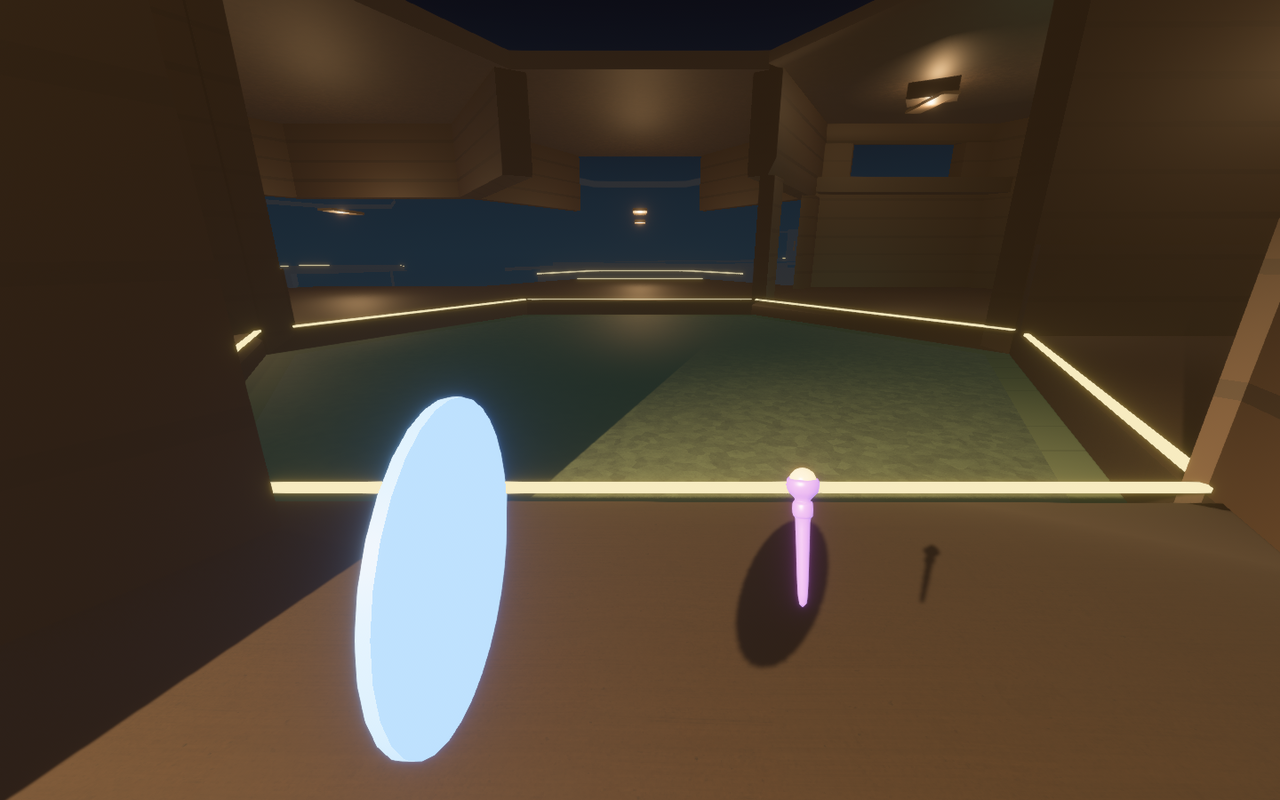
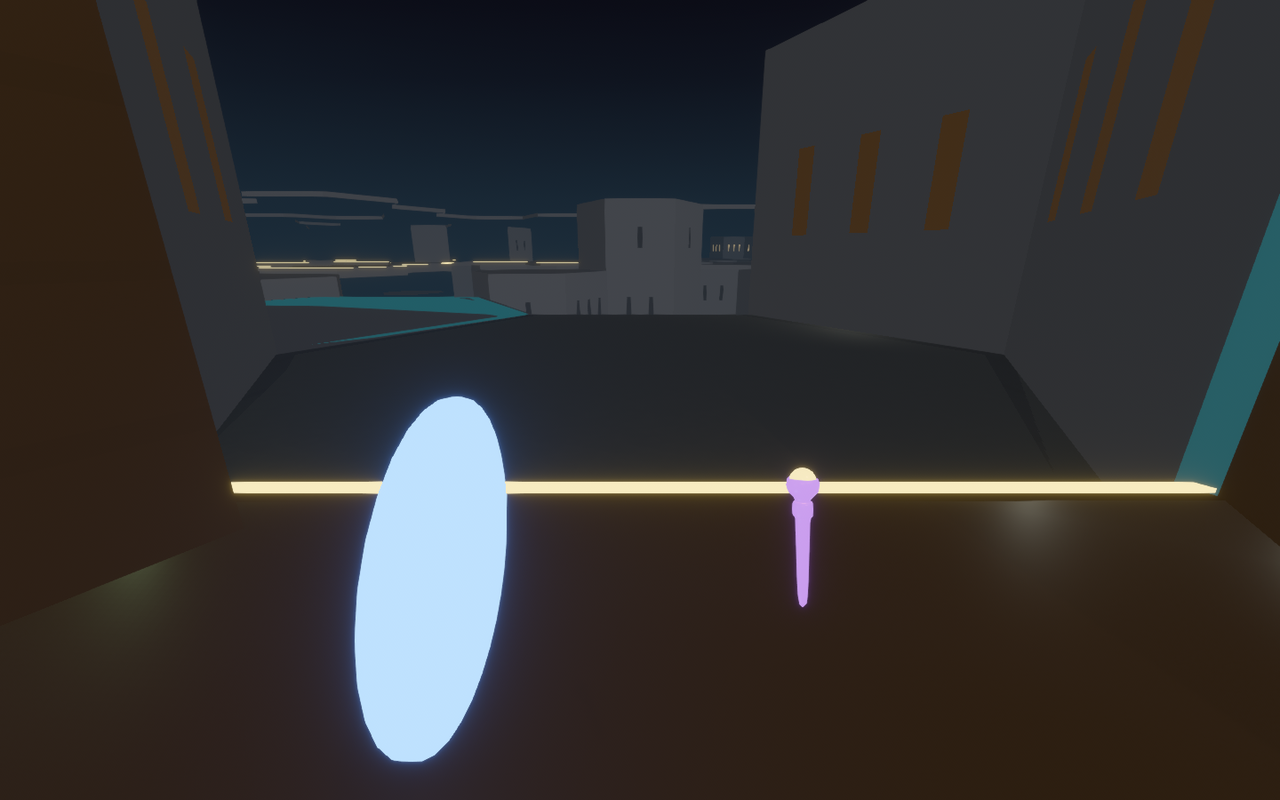
feat(composition): the open-air facility, void share 300 -> 2,000
The committed composition profile now asks for a void share of 2,000, and is
relabelled "open air". It is the baseline in every other control. At 300 the
production facility was 76% built, so most open edges overlooked the roof of
the storey below; the vista that open edges were built for barely appeared.

Chosen on measurement, not taste. On the arc lattice with the committed
catalog (vista_lab's sweep_void_share, six seeds), the share took the facility
from 21% air at 300 to 43% at 1,000, 56% at 2,000 and 79% at 10,000, every seed
solving in the same ~0.4 s with the exit reachable. Drops between towers, the
vista's look, peak near 2,000: 294 open faces over a drop of two storeys or
more at 300, 674 at 2,000, falling away after. Walkways go from 9 a facility
to 29.

And on what a match does (survey_void_share_playability, a solo spectator
runner, ten seeds): 300 finished 10 of 10 at a median of 20,633 ticks; 2,000
finished 10 of 10 at 18,457, with no recoveries in either. 1,500 stalled one
runner in Seek, not a fall.

The SpaceMix doc's sweep predated corridor routing and understated the lever
(38.6% at the ceiling); it now says so and records the new numbers. The in-code
baseline stays at 300, because the compact regression fixtures are pinned to
it.

Moves the committed-profile pins deliberately: the profile and simulation
hashes (LAN peers on the old build are refused, as they should be), the
[…]

diff --git a/game/src/hex_wfc/launch.rs b/game/src/hex_wfc/launch.rs
@@ -254,13 +254,15 @@ mod tests {
     /// The corpus's composition profile must reach the solve, not merely be
     /// loaded and hashed. Without this, authoring a profile would change the
     /// simulation content hash — locking peers out — while building the exact
-    /// same facility, which is the worst of both outcomes.
+    /// same facility, which is the worst of both outcomes. The committed profile
+    /// is authored (the open-air void share), so it must build something the
+    /// baseline does not.
     #[test]
     fn the_corpus_composition_profile_reaches_the_prepared_facility() {
         let content = load_current_content().expect("committed authoring corpus loads");
         assert!(
-            content.composition().is_baseline(),
-            "the committed profile is authored; update this test's expectation"
+            !content.composition().is_baseline(),
+            "the committed profile is the baseline again; update this test's expectation"
         );
         let spec = HexLaunchSpec {
             requested_seed: 0xF011_FAC1_1177,
@@ -268,28 +270,19 @@ mod tests {
             seed_policy: HexSeedPolicy::Nearby,
         };
 
-        let baseline = prepare_with_content(spec, &content).expect("baseline prepares");
-
-        // Bias the lottery hard enough that the layout cannot plausibly match,
-        // while staying inside the validated band so solvability is untouched.
-        let mut authored_catalog = RuntimeHexCatalog {
+        let committed = prepare_with_content(spec, &content).expect("committed prepares");
+        let baseline_catalog = RuntimeHexCatalog {
             cells: content.cells().to_vec(),
             rooms: content.rooms().to_vec(),
-            composition: content.composition().clone(),
+            composition: observed_facility::hex_wfc::HexCompositionProfile::baseline(),
             simulation_content_hash: content.simulation_content_hash(),
         };
-        authored_catalog.composition.archetype_bias = authored_catalog
-            .composition
-            .archetype_bias
-            .with(observed_facility::hex_wfc::HexArchetype::Junction, 4.0)
-            .with(observed_facility::hex_wfc::HexArchetype::Corner, 0.25);
-        assert_eq!(authored_catalog.composition.validate(), Ok(()));
-        let authored = Arc::new(HexMatchContent::from_runtime_catalog(authored_catalog));
-        let steered = prepare_with_content(spec, &authored).expect("authored profile still solves");
+        let baseline = Arc::new(HexMatchContent::from_runtime_catalog(baseline_catalog));
+        let unprofiled = prepare_with_content(spec, &baseline).expect("baseline still solves");
 
         assert_ne!(
-            baseline.match_state.facility.placements, steered.match_state.facility.placements,
-            "an authored composition profile must change what the solver builds"
+            committed.match_state.facility.placements, unprofiled.match_state.facility.placements,
+            "the committed composition profile must change what the solver builds"
         );
     }
 
@@ -303,11 +296,13 @@ mod tests {
         };
         let (mut former_match, former_offset) = (0..NEARBY_SEED_ATTEMPTS)
             .find_map(|seed_offset| {
-                HexWfcMatch::new_with_rooms(
+                // Through the committed content, composition and all: the room-list
+                // constructor solves under the baseline profile, and agreed with the
+                // launch only while the committed profile was the baseline.
+                HexWfcMatch::new_with_content(
                     spec.requested_seed.wrapping_add(seed_offset),
                     spec.config,
-                    content.cells(),
-                    content.rooms(),
+                    content.clone(),
                 )
                 .ok()
                 .map(|match_state| (match_state, seed_offset))

diff --git a/game/src/tests/hex_wfc_survey.rs b/game/src/tests/hex_wfc_survey.rs
@@ -382,7 +382,7 @@ fn spectator_stall_diagnostic_names_the_traversal_state() {
 /// completion tick, and how many recoveries (falls out of the world or off a roof
 /// onto one the runner cannot leave) the bot needed on the way.
 #[test]
-#[ignore = "composition playability survey: 3 void shares x 4 production matches, minutes; prints"]
+#[ignore = "composition playability survey: void shares x production matches, ~50 s each; prints"]
 fn survey_void_share_playability() {
     use observed_facility::hex_wfc::HexWfcConfig;
     let root = std::path::Path::new(env!("CARGO_MANIFEST_DIR")).join("../assets/tiles");
@@ -390,15 +390,28 @@ fn survey_void_share_playability() {
         .map(observed_content::ArchitectureRegister::slug);
     let catalog =
         observed_authoring::RuntimeHexCatalog::load(&root, &slugs).expect("committed catalog");
+    // `OBSERVED2_VOID_SURVEY=300,2000` and `OBSERVED2_VOID_SURVEY_SEEDS=10` widen it.
+    let voids: Vec<f64> = std::env::var("OBSERVED2_VOID_SURVEY")
+        .ok()
+        .map(|list| {
+            list.split(',')
+                .filter_map(|v| v.trim().parse().ok())
+                .collect()
+        })
+        .unwrap_or_else(|| vec![300.0, 1_000.0, 2_000.0]);
+    let seeds: u64 = std::env::var("OBSERVED2_VOID_SURVEY_SEEDS")
+        .ok()
+        .and_then(|n| n.parse().ok())
+        .unwrap_or(4);
     eprintln!("void  finished  median tick  recoveries  (per seed: tick/recoveries)");
-    for void in [300.0, 1_000.0, 2_000.0] {
+    for void in voids {
         let mut catalog = catalog.clone();
         catalog.composition.space_mix.void = void;
         let content = std::sync::Arc::new(
             observed_match::hex_wfc::HexMatchContent::from_runtime_catalog(catalog),
         );
         let (mut ticks, mut recoveries, mut rows) = (Vec::new(), 0, Vec::new());
-        for index in 0..4u64 {
+        for index in 0..seeds {
             let seed = crate::flow::MATCH_SEED.wrapping_add(index.wrapping_mul(1_000_003));
             let config = HexMatchConfig {
                 teams: 1,
@@ -428,13 +441,18 @@ fn survey_void_share_playability() {
                 ticks.push(game.tick);
                 rows.push(format!("{}/{recovered}", game.tick));
             } else {
-                rows.push(format!("stalled/{recovered}"));
+                let runner = game.players.values().next().expect("runner");
+                rows.push(format!(
+                    "stalled/{recovered}[{:?} {:?}]",
+                    runner.cell,
+                    game.bot_behaviour(runner.id)
+                ));
             }
         }
         ticks.sort_unstable();
         let median = ticks.get(ticks.len() / 2).copied().unwrap_or(0);
         eprintln!(
-            "{void:5}  {}/4       {median:11}  {recoveries:10}  {}",
+            "{void:5}  {}/{seeds}      {median:11}  {recoveries:10}  {}",
             ticks.len(),
             rows.join("  ")
         );

diff --git a/crates/observed_authoring/src/composition.rs b/crates/observed_authoring/src/composition.rs
@@ -427,16 +427,23 @@ mod tests {
         load_profile(&committed_tiles()).expect("committed composition profile loads");
     }
 
-    /// Slice 0 ships the substrate, not a composition change. If this starts
-    /// failing, someone authored a real profile — which is fine, but it means
-    /// the shipped facility changed and the layout evidence needs recapturing.
+    /// The committed profile is the open-air composition: the baseline in every
+    /// control but one, a void share of 2,000 in place of 300, chosen on measurement
+    /// (`docs/open_air_facility.md`). If this starts failing, someone authored a
+    /// further change - which is fine, but the shipped facility changed again and
+    /// the layout evidence needs recapturing.
     #[test]
-    fn the_committed_profile_is_still_the_baseline() {
+    fn the_committed_profile_is_the_open_air_composition() {
         let build = load_profile(&committed_tiles()).expect("loads");
+        let mut profile = build.profile;
+        assert_eq!(profile.label, "open air");
+        assert!((profile.space_mix.void - 2_000.0).abs() < f64::EPSILON);
+        let baseline = observed_facility::hex_wfc::HexCompositionProfile::baseline();
+        profile.space_mix.void = baseline.space_mix.void;
+        profile.label.clone_from(&baseline.label);
         assert!(
-            build.profile.is_baseline(),
-            "the committed profile is no longer the baseline: {:?}",
-            build.profile.label
+            profile.is_baseline(),
+            "the committed profile differs from the baseline in more than its void share"
         );
     }
 
@@ -778,13 +785,14 @@ mod tests {
         // channel by which such a change reaches this hash at all.
         const CATALOG_HASH: &str =
[1 lines of base64/hex data omitted]
+        // The open-air composition (void share 2,000), 2026-09-24.
         const PROFILE_HASH: &str =
[2 lines of base64/hex data omitted]
         // Folds the catalog and the profile. Both sides moved this time, which
         // is the point: a peer on the old build now fails the handshake instead
         // of joining and generating a different facility.
         const SIMULATION_HASH: &str =
[2 lines of base64/hex data omitted]
 
         let root = committed_tiles();
         let compiled_text =

diff --git a/crates/observed_match/src/hex_wfc/geometry/tests.rs b/crates/observed_match/src/hex_wfc/geometry/tests.rs
@@ -319,20 +319,23 @@ fn production_catalog_selection_is_pinned_for_spectator_seeds() {
     // Curation retires 96 alternatives from the production catalogue. Re-pin content;
     // placement counts and the unchanged stair-tower family remain exact gates.
     let catalog = crate::hex_wfc::test_catalog();
+    // Re-pinned when the committed profile moved to the open-air composition (void
+    // share 300 -> 2,000): the same seeds build about half as many cells, because more
+    // of the lattice is air. The table above records the facility before that.
     let cases = [
         (
             1u64,
-            293usize,
-            0xce2e_7acb_d1e9_2610u64,
-            45usize,
-            0x95e0_1b87_e452_104cu64,
+            143usize,
+            0xae2f_b54d_2389_fab0u64,
+            29usize,
+            0x4e20_864f_7371_20a9u64,
         ),
         (
             10_000_031u64,
-            238usize,
-            0x62bd_49e7_751c_d215u64,
-            29usize,
-            0xe5db_a473_4a53_b1a3u64,
+            101usize,
+            0xb6bc_c0a1_f832_dd74u64,
+            18usize,
+            0xd4b0_ff69_90ab_03d0u64,
         ),
     ];
     let mut actual = Vec::new();

diff --git a/crates/observed_facility/src/hex_wfc/profile.rs b/crates/observed_facility/src/hex_wfc/profile.rs
@@ -217,6 +217,15 @@ impl SpaceMix {
     /// Room's share only decides anything inside a stamped blueprint, where
     /// room variants are the only legal space, so it is kept near its old
     /// proportion and does no work.
+    ///
+    /// **The sweep above predates corridor routing, and understates the lever.**
+    /// Re-measured on 2026-09-24 on the 24x17x8 arc lattice with routed corridors and
+    /// the committed catalog, six seeds (`vista_lab`'s `sweep_void_share`), the share
+    /// took the facility from 21% air at 300 to 43% at 1,000, 56% at 2,000 and 79% at
+    /// 10,000, with every seed solving in the same ~0.4 s and the exit always reachable.
+    /// Deep drops between towers peak near 2,000. The committed composition profile
+    /// now asks for 2,000 (see `docs/open_air_facility.md`); this in-code baseline
+    /// stays at 300, because it is what the compact regression fixtures are pinned to.
     #[must_use]
     pub const fn baseline() -> Self {
         Self {

diff --git a/docs/open_air_facility.md b/docs/open_air_facility.md
@@ -77,8 +77,9 @@ seconds on a roof, the body goes back to the last cell it stood in.
 
 ## Measured
 
-On the production facility (24 × 17 × 8, the committed composition profile, six
-seeds):
+On the production facility as it was when open edges landed (24 × 17 × 8, the
+committed profile at its old void share of 300, six seeds; see *More void* below for
+what the profile asks for now):
 
 | | per facility |
 | --- | --- |
@@ -111,15 +112,69 @@ deepest drop beyond them, and takes one still at each.
 | ![Railed loggia over the cloud sea](evidence/open_air_facility/vista_01_railed_loggia.png) | ![A bare edge above the unsafe height](evidence/open_air_facility/vista_02_bare_edge.png) |
 | ![A walkway, railed, at level 1](evidence/open_air_facility/vista_03_walkway.png) | ![The summit court](evidence/open_air_facility/vista_04_summit.png) |
 
+## More void: the composition
+
+At 300 the production facility is 76% built, so most open edges overlooked the roof of
+the storey below. The committed composition profile now asks for a void share of
+**2,000**, relabelled `open air`.
+
+**What it does to the shape** (`vista_lab`'s `sweep_void_share`, six seeds, arc lattice):
+
+| void share | air | open halls | walkways | deep drops off the rim | deep drops between towers | floating cells | solved, exit reachable |
+| --- | --- | --- | --- | --- | --- | --- | --- |
+| 300 (was) | 21% | 903 | 9 | 368 | 294 | 137 | 6/6, 6/6 |
+| 1,000 | 43% | 785 | 18 | 191 | 551 | 212 | 6/6, 6/6 |
+| **2,000** | **56%** | 671 | 29 | 131 | **674** | 244 | 6/6, 6/6 |
+| 4,000 | 69% | 485 | 32 | 72 | 612 | 255 | 6/6, 6/6 |
+
+Solve time is flat at about 0.4 s throughout. Drops between towers, the vista's look,
+peak near 2,000; beyond it the building thins and they fall away.
+
+**What it does to a match** (`survey_void_share_playability`, a solo spectator runner
+on the arc lattice, ten seeds):
+
+| void share | finished | median completion tick | recoveries |
+| --- | --- | --- | --- |
+| 300 (was) | 10/10 | 20,633 | 0 |
+| 1,500 | 9/10 | 20,589 | 0 |
+| **2,000** | **10/10** | **18,457** | 0 |
+
+At 1,500 one runner stalled while seeking, standing on a level-4 hall; it was not a
+fall. Two thousand finished every run and ran about 10% faster at the median.
+
+To try another share in the game without committing it:
+
+```powershell
+$env:OBSERVED2_HEX_VOID_SHARE = "4000"; cargo dev-run -p observed_game
+```
+
+The share is folded into the simulation content hash, so a LAN peer on a different
+composition refuses the match.
+
+## Two bugs the gate could not see
+
+Both were found by the production survey after open edges merged, and both are fixed
+with tests that fail without the fix.
+
+- **Holed floors.** Most corridor halls are narrower than their cell, and the solid
+  masses either side of the corridor carry its floor as well as its wall. Removing a
+  mass to open a face holed the floor. Each removed mass now leaves its footprint as
+  floor.
+- **A walkway kept the hall's path.** A span kept the full-width hall's authored deck
+  guide, which weaves across floor the span no longer has. It walked the runner off an
+  unrailed level-7 walkway, onto the roof below and back, for the rest of the match. A
+  span now carries no authored guide.
+
+The gate missed both because its hex fixtures are compact four-level facilities built
+from the compatibility tiles. Bare edges only start at level 5, and the committed
+corpus is richer. `production_runner_crosses_unrailed_open_edges_without_falling` now
+runs the seed that looped, on the arc lattice, in the gate.
+
 ## Still thin
 
-- **The production facility is dense.** It is 76% built, so most open edges overlook
-  the roof of the storey below. The deep drops are at the rim, where the view is the
-  cloud sea, not the building. For the vista's towers and floating islands to appear in
-  play, the composition profile needs more void between structures. That is a
-  composition question, not a rendering one.
-- **The far skin reads dark.** It is correct at the edge of the fog, but without a real
-  moon the distant building is mostly silhouette and window light.
+- **The far skin is only a stand-in.** It reads well at 2,000, but without a real moon
+  the distant building is lit by its baked shading and window light, not by anything
+  in the scene.
 - **Observer sight does not yet cross open edges.** Observation in the match still
   follows ports. Seeing across air (which `architect_lab` already models) is the next
   gameplay step, and it touches the observation contract, so it is a design decision.

diff --git a/labs/vista_lab/README.md b/labs/vista_lab/README.md
@@ -131,7 +131,8 @@ downstream of placement is borrowed from the real facility:
    production renderer could draw one without a new tile.
 6. **The production facility is dense, walled in, and half of it touches the sky.**
    Solved exactly as a match solves it (the 24 × 17 × 8 arc lattice, the
-   committed composition profile, six seeds; `production_tests.rs`):
+   composition profile as it then was, void share 300; six seeds;
+   `production_tests.rs`):
 
    | | per facility |
    | --- | --- |
@@ -146,6 +147,9 @@ downstream of placement is borrowed from the real facility:
    opens onto it and every face that borders it is a tile wall. **From inside the
    facility the game plays, nobody can see out.** Bringing this lab's vista into
    the game is therefore not only a renderer: something has to open onto the air.
+
+   Both halves have since happened: open edges, and a composition with more void
+   (share 2,000, 56% air). See [docs/open_air_facility.md](../../docs/open_air_facility.md).
 
 ## What this lab deliberately is not
 
